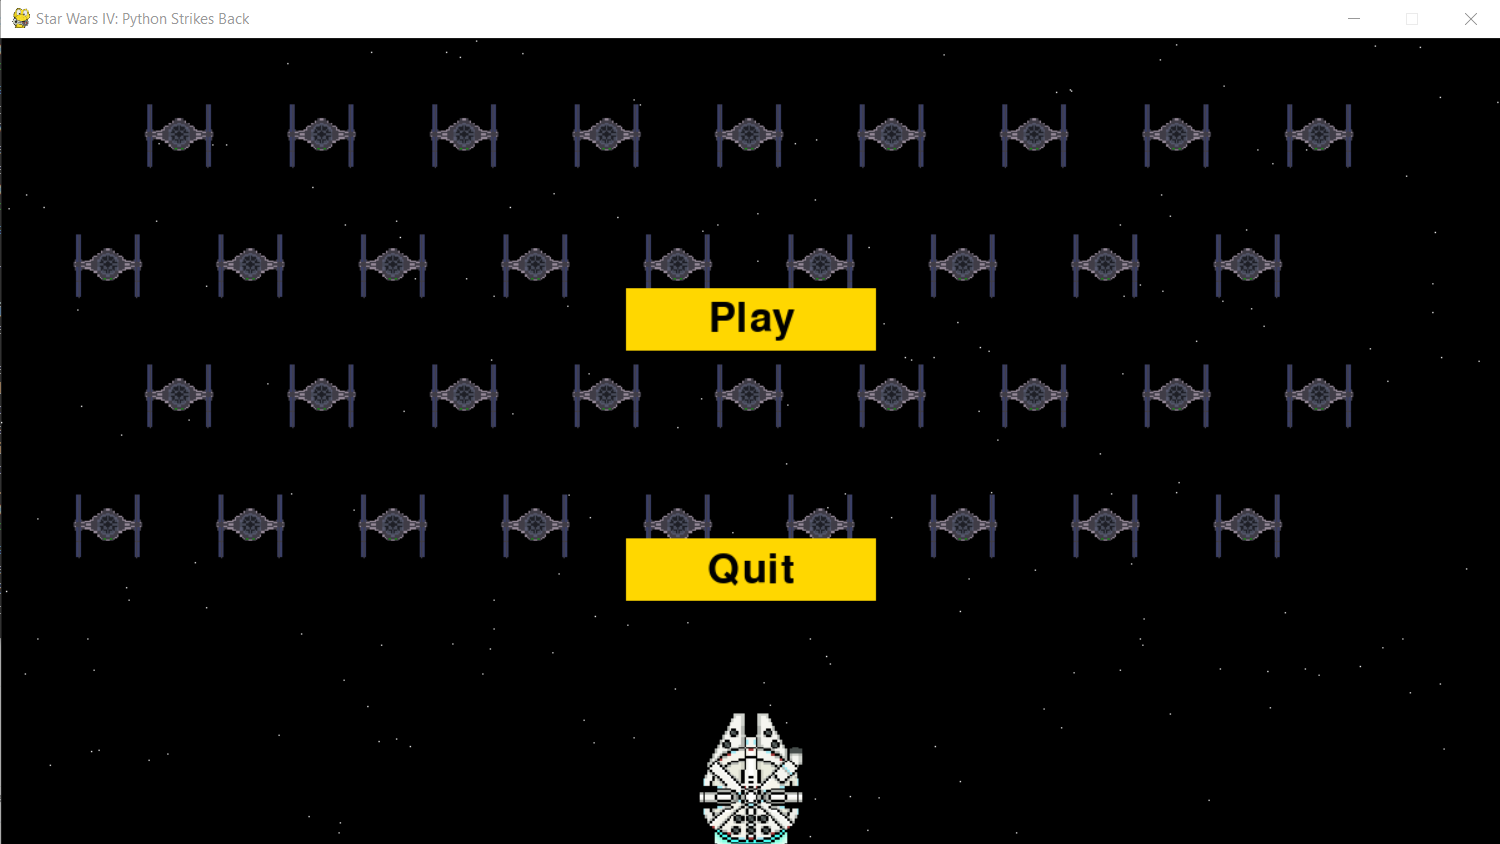
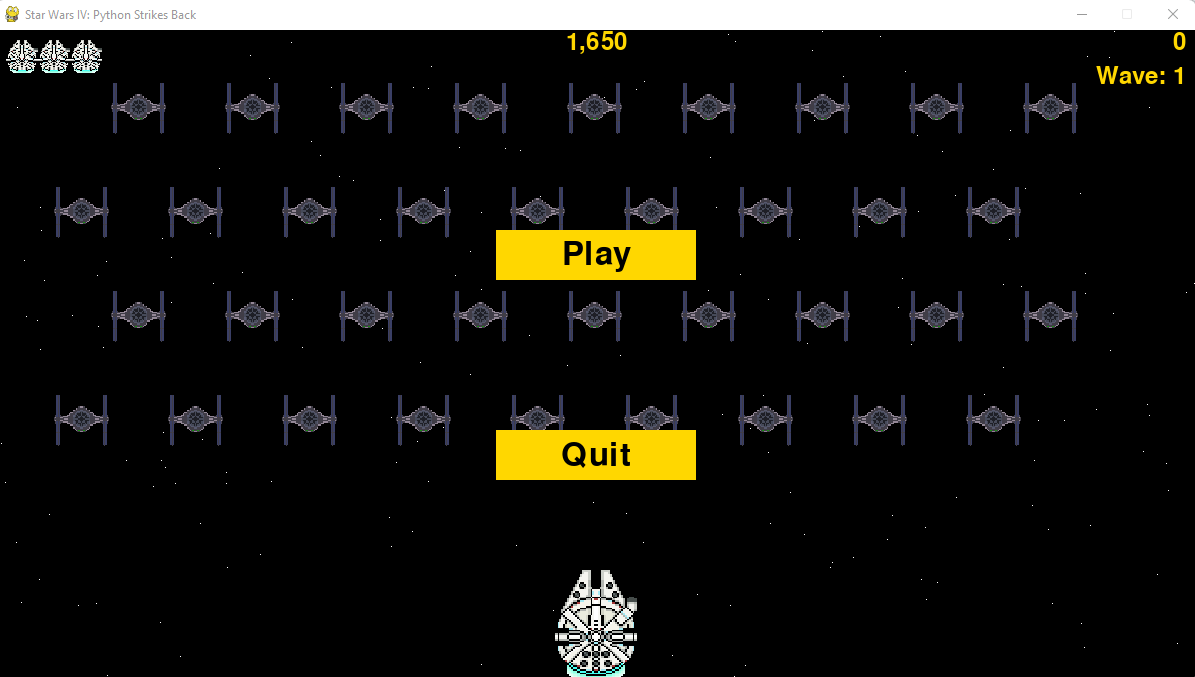
Updated in the Scoreboard

diff --git a/star_wars_game.py b/star_wars_game.py
@@ -181,12 +181,17 @@ class StarWars:
                 
                 # Hiding the cursor
                 pygame.mouse.set_visible(False)
+
             elif event.key == pygame.K_q:
-               if self.stats.score >= self.stats.high_score:
+                if self.stats.score >= self.stats.high_score:
                     self.stats.high_score = self.stats.score
                     with open('high-score.txt', 'w') as f:
                         f.write(str(self.stats.high_score))
+                        f.close()
                     sys.exit()
+                else:
+                    sys.exit()
+        
 
         elif event.key == pygame.K_q:
                if self.stats.score >= self.stats.high_score:
@@ -217,7 +222,11 @@ class StarWars:
     def _check_quit_button(self, mouse_position):
         """Quit the game"""
         if self.quit_button.rect.collidepoint(mouse_position):
-            sys.exit()
+            if self.stats.score >= self.stats.high_score:
+                    self.stats.high_score = self.stats.score
+                    with open('high-score.txt', 'w') as f:
+                        f.write(str(self.stats.high_score))
+                    sys.exit()
 
     def _check_play_button(self, mouse_position):
         """Start a new game when clicking on ths start button"""
